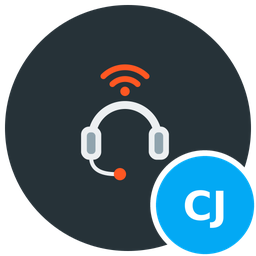
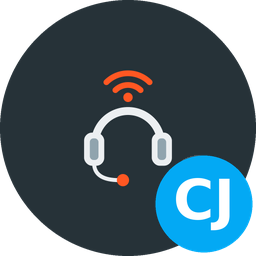
Meldkamer 1.4.8: same disc and CJ badge as the other apps (#24)
* Meldkamer 1.4.8: same disc and CJ badge as the other apps

The CJ lettering was about 37 px wide against 52 px elsewhere, the badge had a
grey ring, and the disc was slightly smaller and off-centre. The icon is rebuilt
on the standard disc with the badge pixels from TeslaMeter's icon, the headset
symbol is kept and centred, and the logo gets the new icon.

* Meldkamer logo: same blue name as the other apps

The name was #03A9F4; TeslaMeter, GoodWe and Toon use #4C8DFF.

---------

Changed region(s): [[0.0, 0.0, 1.0, 1.0], [0.6875, 0.6875, 0.9062, 0.9062], [0.7188, 0.7188, 1.0, 1.0]]

diff --git a/app-meldkamer/CHANGELOG.md b/app-meldkamer/CHANGELOG.md
@@ -1,5 +1,11 @@
 # Changelog
 
+## 1.4.8
+
+**After updating:** nothing to do.
+
+- The icon and logo use the same disc and CJ badge as the other apps. The CJ was smaller, with a grey ring around the badge. The name in the logo has the same blue as the other apps too.
+
 ## 1.4.7
 
 **After updating:** nothing to do.
